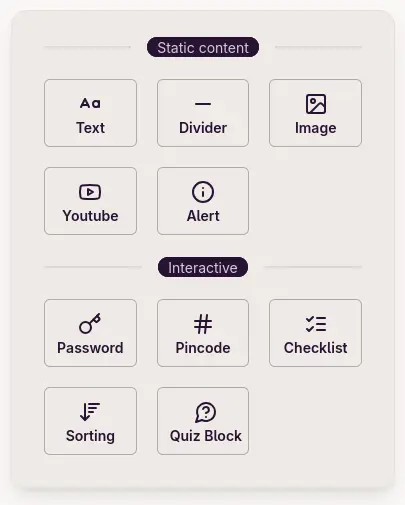
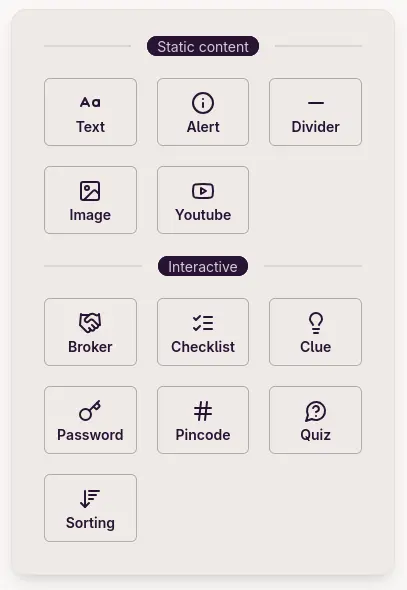
docs: block order + image update

diff --git a/docs/user/blocks/checklist.md b/docs/user/blocks/checklist.md
@@ -1,7 +1,7 @@
 ---
 title: "Checklist Block"
 sidebar: true
-order: 6
+order: 3
 ---
 
 # Checklist Block

diff --git a/docs/user/blocks/sorting.md b/docs/user/blocks/sorting.md
@@ -1,7 +1,7 @@
 ---
 title: "Sorting Block"
 sidebar: true
-order: 9
+order: 10
 ---
 
 # Sorting Block

diff --git a/docs/user/blocks/youtube.md b/docs/user/blocks/youtube.md
@@ -1,7 +1,7 @@
 ---
 title: "YouTube Block"
 sidebar: true
-order: 4
+order: 12
 ---
 
 # YouTube Block

diff --git a/docs/user/blocks/divider.md b/docs/user/blocks/divider.md
@@ -1,7 +1,7 @@
 ---
 title: "Divider Block"
 sidebar: true
-order: 2
+order: 5
 ---
 
 # Divider Block

diff --git a/docs/user/blocks/broker.md b/docs/user/blocks/broker.md
@@ -1,7 +1,7 @@
 ---
 title: "Broker Block"
 sidebar: true
-order: 9
+order: 2
 ---
 
 # Broker Block

diff --git a/docs/user/blocks/alert.md b/docs/user/blocks/alert.md
@@ -1,7 +1,7 @@
 ---
 title: "Alert Block"
 sidebar: true
-order: 5
+order: 1
 ---
 
 # Alert Block

diff --git a/docs/user/blocks/image.md b/docs/user/blocks/image.md
@@ -1,7 +1,7 @@
 ---
 title: "Image Block"
 sidebar: true
-order: 3
+order: 6
 ---
 
 # Image Block

diff --git a/docs/user/blocks/quiz.md b/docs/user/blocks/quiz.md
@@ -1,7 +1,7 @@
 ---
 title: "Quiz Block"
 sidebar: true
-order: 10
+order: 9
 ---
 
 # Quiz Block

diff --git a/docs/user/blocks/text.md b/docs/user/blocks/text.md
@@ -1,7 +1,7 @@
 ---
 title: "Text Block"
 sidebar: true
-order: 1
+order: 11
 ---
 
 # Text Block

diff --git a/docs/user/blocks/clue.md b/docs/user/blocks/clue.md
@@ -1,7 +1,7 @@
 ---
 title: "Clue Block"
 sidebar: true
-order: 8
+order: 4
 ---
 
 # Clue Block
